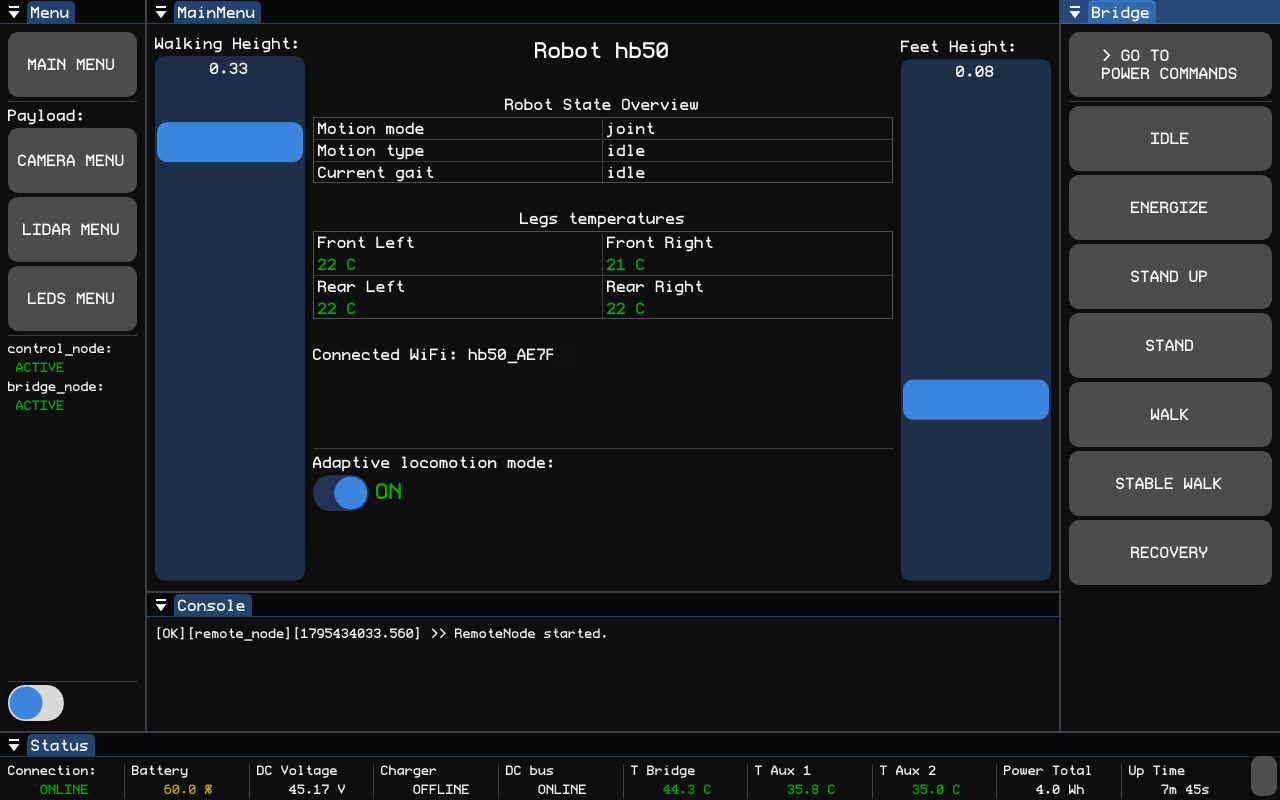
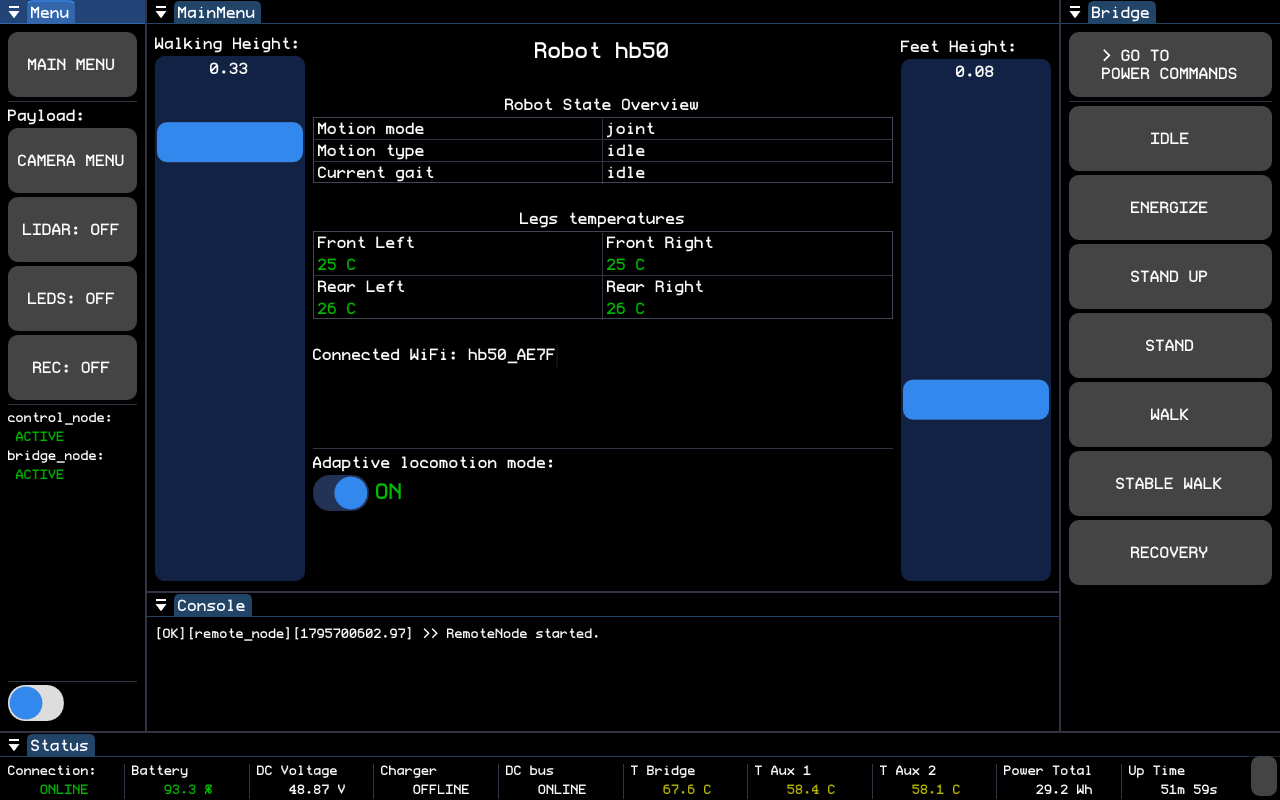
docs: v1.3.2 remote payload menu update

diff --git a/Payload/CameraLidar.md b/Payload/CameraLidar.md
@@ -6,23 +6,6 @@ The software is installed on the APC from the `hb50-payload` package and configu
 
 ## Remote controller interface
 
-The `CAMERA MENU`, `LIDAR MENU` and `LEDS MENU` buttons appear in the left menu of the `HB50 Remote` application automatically when the robot detects the payload, that is when `payload_node` is running. The `LIDAR MENU` button appears only when `lidar.config` is set, and the `LEDS MENU` button only when `leds.device` is set.
-
-The camera, the lidar and the LEDs are off by default and have to be turned on each time `payload_node` starts.
-
-When the enabled camera sends no pictures for 3 s, for example after it was unplugged, it is reconnected automatically as soon as it is available again.
-
-### Camera menu
-
-| Name | Function |
-| --- | --- |
-| `ENABLE` | Starts the camera. |
-| `DISABLE` | Stops the camera. |
-| Mode buttons (`walk`, `inspect`, ...) | Switch the camera mode. One button is shown for each mode in `camera.modes`; the active mode is greyed out. |
-| `ADVANCED` | Shows or hides the advanced camera settings. |
-| `SNAPSHOT` | Saves the current camera picture on the Steam Deck in `~/Pictures/hb50/`. |
-| `MAXIMIZE` | Shows the camera picture over the whole application. `MINIMIZE` returns to the normal view. |
-
 ```{figure} ./img/deck_camera.png
 :alt: deck_camera
 :class: bg-primary mb-1
@@ -30,12 +13,35 @@ When the enabled camera sends no pictures for 3 s, for example after it was unpl
 :class: no-scaled-link
 ```
 
-The advanced camera settings contain:
+When the robot detects the payload, that is when `payload_node` is running, the payload buttons appear in the left menu of the `HB50 Remote` application:
 
 | Name | Function |
 | --- | --- |
-| `ROTATE 180°` | Turns the `camera.rotate_180` rotation on and off. |
-| `-` / `+` | Change the JPEG quality of the active camera mode in steps of 10, from 10 to 90 or `ORIGINAL` (camera frames sent unchanged). |
+| `CAMERA MENU` | Opens the camera menu. |
+| `LIDAR: ON` / `OFF` | Starts or stops the lidar driver. Shown only when `lidar.config` is set. |
+| `LEDS: ON` / `OFF` | Turns the LEDs on or off. Shown only when `leds.device` is set. |
+| `REC: OFF` / `REC: <mm:ss>` | Starts or stops the {ref}`rosbag recording <rosbag-recording>`. While recording, the button shows the recording time. |
+
+While a command is executed, the button shows `STARTING...` or `STOPPING...`. The camera, the lidar and the LEDs are off by default and have to be turned on each time `payload_node` starts.
+
+When the enabled camera sends no pictures for 3 s, for example after it was unplugged, it is reconnected automatically as soon as it is available again.
+
+### Camera menu
+
+| Name | Function |
+| --- | --- |
+| `CAMERA: ON` / `OFF` | Starts or stops the camera. |
+| Mode buttons (`WALK`, `INSPECT`, ...) | Switch the camera mode. One button with the resolution and frame rate is shown for each mode in `camera.modes`; the active mode is highlighted. |
+| `SETTINGS` | Shows or hides the camera settings. |
+| Camera picture | Tap to show the picture over the whole application, tap again to return. The frame rate is shown in the top right corner, `CAMERA OFF` or `NO SIGNAL` when no pictures arrive. |
+| `SNAPSHOT` | Saves the current camera picture on the Steam Deck in `~/Pictures/hb50/`. |
+
+The camera settings contain:
+
+| Name | Function |
+| --- | --- |
+| `-` / `+` | Change the JPEG quality (`QUALITY`) of the active camera mode in steps of 10, from 10 to 90 or `ORIGINAL` (camera frames sent unchanged). Lower quality is smoother over a weak Wi-Fi connection. |
+| `FLIP 180°: ON` / `OFF` | Turns the `camera.rotate_180` rotation on and off, for a camera mounted upside down. |
 
 ```{figure} ./img/deck_camera_advanced.png
 :alt: deck_camera_advanced
@@ -46,42 +52,12 @@ The advanced camera settings contain:
 
 Settings changed in the remote apply until `payload_node` restarts. To keep them, set them in `/etc/hb50/payload.yaml`.
 
-### Lidar menu
-
-| Name | Function |
-| --- | --- |
-| `ENABLE` | Starts the lidar driver. |
-| `DISABLE` | Stops the lidar driver. |
-| Rosbag `START` | Starts recording a rosbag on the APC. |
-| Rosbag `STOP` | Stops the recording and saves the rosbag. |
-
-```{figure} ./img/deck_lidar.png
-:alt: deck_lidar
-:class: bg-primary mb-1
-:align: center
-:class: no-scaled-link
-```
-
-### LEDs menu
-
-| Name | Function |
-| --- | --- |
-| `ON` | Turns the LEDs on. |
-| `OFF` | Turns the LEDs off. |
-
-```{figure} ./img/deck_leds.png
-:alt: deck_leds
-:class: bg-primary mb-1
-:align: center
-:class: no-scaled-link
-```
-
 The result of each command is shown in the status console.
 
 (rosbag-recording)=
 ## Rosbag recording
 
-`payload_node` can record a rosbag, started and stopped with the `/hb50/payload/rosbag/record` service (`std_srvs/srv/SetBool`) or the rosbag buttons in the `LIDAR MENU`. The rosbag is saved in MCAP format on the APC in `~/rosbags/payload_<date>_<time>` of the user the payload runs as, and contains the topics:
+`payload_node` can record a rosbag, started and stopped with the `/hb50/payload/rosbag/record` service (`std_srvs/srv/SetBool`) or the `REC` button of the `HB50 Remote` application. The rosbag is saved in MCAP format on the APC in `~/rosbags/payload_<date>_<time>` of the user the payload runs as, and contains the topics:
 
 - `/hb50/bridge_state_10hz`,
 - `/hb50/robot_state_10hz`,

diff --git a/GettingStarted/ControlConsole.md b/GettingStarted/ControlConsole.md
@@ -36,7 +36,7 @@ On the desktop, there is an `HB50 Remote` application icon that starts the `remo
 The application window consists of:
 
 - **Status** (bottom) — connection state, battery level, DC voltage, charger and DC bus state, temperatures, energy used and up time,
-- **Menu** (left) — state of `control_node` and `bridge_node`: `ACTIVE`, `INACTIVE`, `UNCONFIGURED` or `OFF`. During normal operation both nodes are `ACTIVE`. When a payload is detected, the `CAMERA MENU`, `LIDAR MENU`, `LEDS MENU` or `SPOOL MENU` button appears together with the `MAIN MENU` button, which returns to the main view, see [Camera & Lidar](../Payload/CameraLidar.md) and [Spool](../Payload/Spool.md). The `DEV MODE` toggle at the bottom is PIN-protected and intended for MAB service,
+- **Menu** (left) — state of `control_node` and `bridge_node`: `ACTIVE`, `INACTIVE`, `UNCONFIGURED` or `OFF`. During normal operation both nodes are `ACTIVE`. When a payload is detected, the `CAMERA MENU` and `SPOOL MENU` buttons, the `LIDAR`, `LEDS` and `REC` toggles appear together with the `MAIN MENU` button, which returns to the main view, see [Camera & Lidar](../Payload/CameraLidar.md) and [Spool](../Payload/Spool.md). The `DEV MODE` toggle at the bottom is PIN-protected and intended for MAB service,
 - **MainMenu** (center) — walking height and feet height sliders, robot state overview (motion mode, motion type and current gait), leg temperatures, connected Wi-Fi network and the {ref}`adaptive locomotion mode <adaptive-mode>` toggle,
 - **Console** — status messages from the robot and the application,
 - **Bridge** (right) — robot commands. The Command Switch button at the top (`> GO TO POWER COMMANDS` / `> GO TO CONTROL COMMANDS`) switches between control and power commands.

diff --git a/intro.md b/intro.md
@@ -44,7 +44,7 @@
 
 ## Documentation for older software versions
 
-This documentation describes robot software v1.3.1. Documentation for older software versions is available as PDF:
+This documentation describes robot software v1.3.2. Documentation for older software versions is available as PDF:
 
 - {download}`Software v1.2.0 <downloads/hb-docs-v1.2.0.pdf>`
 - {download}`Software v1.1.0 <downloads/hb-docs-v1.1.0.pdf>`
